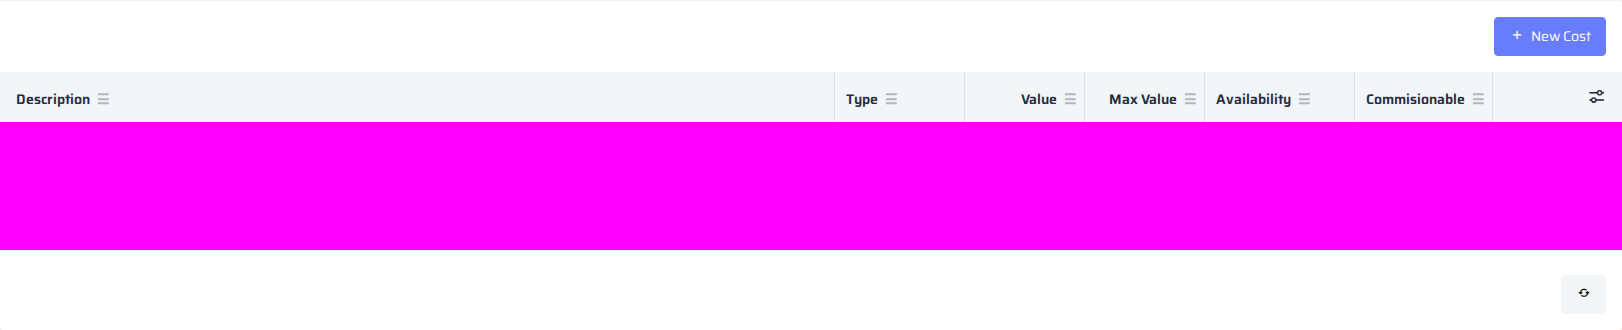
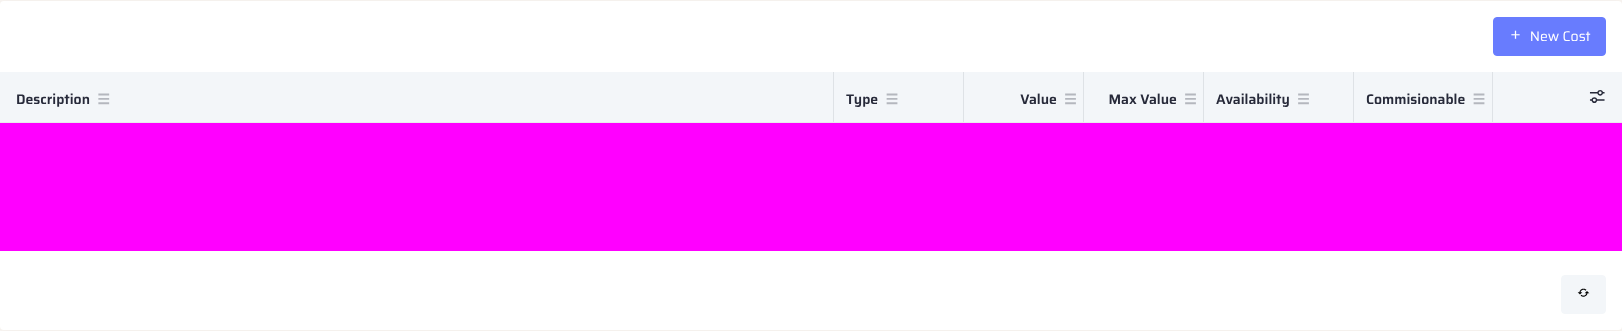
fix(visual): [MX-5531] estabilizar render de texto en regresion visual (#15)
* fix(visual): [MX-5531] estabilizar render de texto en regresion visual

Causa raiz del diff ~2% (5955px) en unpaid-travels y riesgo en los 16 specs:
variacion sub-pixel de render de fuentes/iconos entre runs del mismo runner
Linux, concentrada en bordes de texto del thead y barra de filtros. No es
regresion real de UI (actual == expected al ojo, fecha congelada correcta).

A) playwright.config.ts (proyecto visual): launchOptions.args con
--font-render-hinting=none, --disable-lcd-text, --force-color-profile=srgb
-> render de texto deterministico, sin AA subpixel variable.

B) tests/fixtures/visualBaseline.ts: addStyleTag -> addInitScript, el CSS
anti-animacion persiste tras goto() (antes se descartaba al navegar).
Eliminado document.fonts.ready: corria sobre about:blank (no-op);
toHaveScreenshot ya espera fuentes en el momento de captura.

Requiere regenerar baselines linux 1 vez via workflow_dispatch
(update_baselines=true).

* chore(visual): [MX-5711] update baselines [skip ci]

---------

diff --git a/tests/fixtures/visualBaseline.ts b/tests/fixtures/visualBaseline.ts
@@ -1,8 +1,7 @@
 // tests/fixtures/visualBaseline.ts
 // Fixture especializada para regresion visual:
-// - Desactiva animaciones CSS y Angular transitions.
+// - Desactiva animaciones CSS y Angular transitions (persistente entre navegaciones).
 // - Congela hora del sistema para evitar diffs por timestamps.
-// - Espera fonts.ready antes de capturar.
 // Uso: import { test, expect } from '@fixtures/visualBaseline'.
 import { test as base, expect, type Page } from '@playwright/test';
 
@@ -13,25 +12,38 @@ type VisualFixtures = {
 export const test = base.extend<VisualFixtures>({
   visualPage: async ({ page }, use) => {
     // 1. Congelar hora a un valor fijo (evita diff en clocks visibles).
+    //    clock.install se aplica via init script -> persiste tras goto().
     await page.clock.install({ time: new Date('2026-01-01T00:00:00Z') });
 
     // 2. Reducir movimiento - respeta prefers-reduced-motion.
     await page.emulateMedia({ reducedMotion: 'reduce' });
 
-    // 3. Inyectar CSS que neutraliza transitions/animations remanentes.
-    await page.addStyleTag({
-      content: `
+    // 3. Neutralizar transitions/animations en CADA documento.
+    //    addInitScript persiste tras la navegacion del spec (goto()); el anterior
+    //    addStyleTag se descartaba al navegar y nunca aplicaba a la app real (MX-5531).
+    await page.addInitScript(() => {
+      const css = `
         *, *::before, *::after {
           transition: none !important;
           animation: none !important;
           animation-duration: 0s !important;
           transition-duration: 0s !important;
         }
-      `
+      `;
+      const inject = () => {
+        const style = document.createElement('style');
+        style.setAttribute('data-visual-baseline', '');
+        style.textContent = css;
+        document.head.appendChild(style);
+      };
+      if (document.head) inject();
+      else document.addEventListener('DOMContentLoaded', inject, { once: true });
     });
 
-    // 4. Esperar a que fonts terminen de cargar.
-    await page.evaluate(() => document.fonts.ready);
+    // Nota fuentes: el wait previo (document.fonts.ready) corria sobre about:blank
+    // antes del goto() del spec, por lo que nunca esperaba las fuentes de la app.
+    // toHaveScreenshot ya espera document.fonts.ready en el momento de captura,
+    // sobre el documento real; ese es el wait efectivo. Se elimina el no-op.
 
     await use(page);
   }

diff --git a/playwright.config.ts b/playwright.config.ts
@@ -100,7 +100,16 @@ export default defineConfig({
         // Fija browser timezone en UTC para que date pickers/snapshots no cambien
         // entre runners locales y GitHub Actions.
         timezoneId: 'UTC',
-        storageState: getStorageStatePath(env)
+        storageState: getStorageStatePath(env),
+        // Determinismo de render de texto (MX-5531): elimina variacion sub-pixel
+        // de fuentes/iconos entre runs del mismo runner Linux, causa del diff de
+        // ~2% concentrado en bordes de texto del thead/barra de filtros.
+        // - font-render-hinting=none: hinting deterministico, sin auto-hint.
+        // - disable-lcd-text: AA en escala de grises (no subpixel RGB).
+        // - force-color-profile=srgb: perfil de color fijo.
+        launchOptions: {
+          args: ['--font-render-hinting=none', '--disable-lcd-text', '--force-color-profile=srgb']
+        }
       }
     },
     {